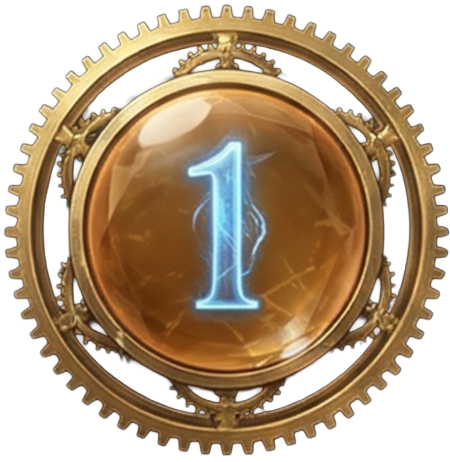
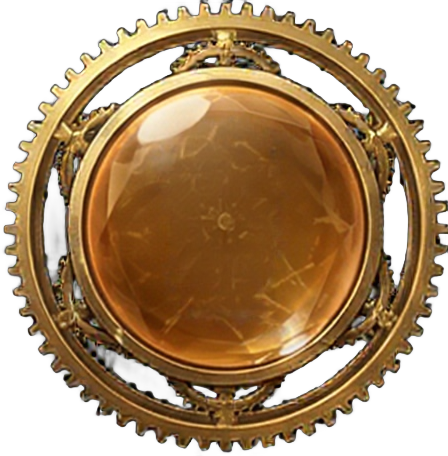
UI: Refactor Score Screen (fixed sizes 320.78x65, pearl blue rank 1, elegant silver rank 2, and resized action buttons)

Changed region(s): [[0.0, 0.0, 1.0, 1.0], [0.625, 0.6754, 0.6562, 0.7061]]

diff --git a/style.css b/style.css
@@ -3588,7 +3588,7 @@ body:has(#screen-setup.active) #app-container {
     display: flex;
     flex-direction: column;
     align-items: center;
-    padding: 3rem 2rem 6rem 2rem;
+    padding: 1rem 2rem 6rem 2rem;
     height: 100svh;
     overflow-y: auto;
     position: relative;
@@ -3607,9 +3607,15 @@ body:has(#screen-setup.active) #app-container {
 
 .astral-header {
     text-align: center;
-    margin-bottom: 3rem;
+    margin-bottom: 1rem; /* Reducido para compactar mÃƒÂ¡s */
     position: relative;
     z-index: 2;
+}
+
+.astral-title-img {
+    width: 425px; /* Reducción del 15% aproximada sobre el valor implícito */
+    height: auto;
+    filter: drop-shadow(0 5px 15px rgba(0,0,0,0.5));
 }
 
 .astral-title {
@@ -3649,10 +3655,20 @@ body:has(#screen-setup.active) #app-container {
     backdrop-filter: blur(12px);
     border: 1px solid rgba(255, 255, 255, 0.08);
     border-radius: 20px;
-    padding: 1.2rem 2rem;
     position: relative;
     transition: all 0.4s cubic-bezier(0.175, 0.885, 0.32, 1.275);
     box-shadow: 0 8px 32px rgba(0, 0, 0, 0.4);
+    
+    /* TAMAÑO FIJO SOLICITADO */
+    width: 320.78px !important;
+    min-width: 320.78px !important;
+    max-width: 320.78px !important;
+    height: 65px !important;
+    min-height: 65px !important;
+    max-height: 65px !important;
+    padding: 0 1.2rem !important;
+    margin: 0 auto;
+    overflow: hidden !important; /* Evitar que el contenido lo estire */
 }
 
 .astral-score-item:hover {
@@ -3664,37 +3680,53 @@ body:has(#screen-setup.active) #app-container {
 .astral-item-gold {
     border: 1px solid rgba(251, 191, 36, 0.9);
     background: linear-gradient(90deg, rgba(251, 191, 36, 0.5) 0%, rgba(251, 191, 36, 0.15) 50%, rgba(15, 23, 42, 0.8) 100%);
-    box-shadow: 0 10px 30px rgba(251, 191, 36, 0.35), inset 0 0 25px rgba(251, 191, 36, 0.25);
+    box-shadow: 0 8px 32px rgba(0, 0, 0, 0.4);
+    width: 320.78px !important;
+    height: 65px !important;
+    min-height: 65px !important;
+    max-height: 65px !important;
 }
 
 .astral-item-gold:hover {
-    box-shadow: 0 15px 40px rgba(251, 191, 36, 0.5), inset 0 0 35px rgba(251, 191, 36, 0.35);
-    border-color: rgba(251, 191, 36, 1);
+    transform: translateY(-4px) scale(1.02);
+    box-shadow: 0 15px 40px rgba(0, 0, 0, 0.6);
 }
 
 .astral-item-silver {
     border: 1px solid rgba(148, 163, 184, 0.9);
     background: linear-gradient(90deg, rgba(148, 163, 184, 0.5) 0%, rgba(148, 163, 184, 0.15) 50%, rgba(15, 23, 42, 0.8) 100%);
-    box-shadow: 0 8px 25px rgba(148, 163, 184, 0.25), inset 0 0 20px rgba(148, 163, 184, 0.15);
+    box-shadow: 0 8px 32px rgba(0, 0, 0, 0.4);
+    width: 320.78px !important;
+    height: 65px !important;
+    min-height: 65px !important;
+    max-height: 65px !important;
 }
 
 .astral-item-bronze {
     border: 1px solid rgba(205, 127, 50, 0.9);
     background: linear-gradient(90deg, rgba(205, 127, 50, 0.5) 0%, rgba(205, 127, 50, 0.15) 50%, rgba(15, 23, 42, 0.8) 100%);
-    box-shadow: 0 8px 25px rgba(205, 127, 50, 0.25), inset 0 0 20px rgba(205, 127, 50, 0.15);
+    box-shadow: 0 8px 32px rgba(0, 0, 0, 0.4);
+    width: 320.78px !important;
+    height: 65px !important;
+    min-height: 65px !important;
+    max-height: 65px !important;
 }
 
 .astral-item-red {
     border: 1px solid rgba(239, 68, 68, 0.9);
     background: linear-gradient(90deg, rgba(239, 68, 68, 0.5) 0%, rgba(239, 68, 68, 0.15) 50%, rgba(15, 23, 42, 0.8) 100%);
-    box-shadow: 0 8px 25px rgba(239, 68, 68, 0.3), inset 0 0 20px rgba(239, 68, 68, 0.2);
+    box-shadow: 0 8px 32px rgba(0, 0, 0, 0.4);
+    width: 320.78px !important;
+    height: 65px !important;
+    min-height: 65px !important;
+    max-height: 65px !important;
 }
 
 .astral-rank-number {
     font-family: var(--font-serif);
-    font-size: 2.2rem;
+    font-size: 1.5rem; /* Reducido para encajar en 65px */
     font-weight: 800;
-    min-width: 50px;
+    min-width: 40px;
     text-align: center;
     color: #64748b;
 }
@@ -3702,7 +3734,6 @@ body:has(#screen-setup.active) #app-container {
 .astral-rank-1 {
     color: #fbbf24;
     text-shadow: 0 0 15px rgba(251, 191, 36, 0.8);
-    font-size: 2.8rem;
 }
 
 .astral-rank-2 {
@@ -3720,6 +3751,46 @@ body:has(#screen-setup.active) #app-container {
     text-shadow: 0 0 12px rgba(239, 68, 68, 0.4);
 }
 
+.rank-number-overlay {
+    position: absolute;
+    top: 50%;
+    left: 50%;
+    transform: translate(-50%, -45%);
+    font-weight: 900;
+    font-size: 1.2rem; /* Mucho mÃƒÂ¡s pequeño */
+    pointer-events: none;
+    z-index: 5;
+    -webkit-text-stroke: 1.5px rgba(0, 0, 0, 0.8);
+    text-shadow: 0 2px 4px rgba(0,0,0,0.5);
+}
+
+.rank-1-blue {
+    color: #b3e5fc !important; /* Azul perla brillante muy claro */
+    -webkit-text-fill-color: #b3e5fc !important;
+    text-shadow: 
+        0 0 8px rgba(179, 229, 252, 0.8),
+        0 0 15px rgba(3, 169, 244, 0.5),
+        0 0 25px rgba(255, 255, 255, 0.6);
+    -webkit-text-stroke: 0 !important; /* Quitar trazo negro */
+}
+
+.rank-2-silver {
+    color: #f1f5f9 !important; /* Gris plata muy claro y elegante */
+    -webkit-text-fill-color: #f1f5f9 !important;
+    text-shadow: 
+        0 0 10px rgba(255, 255, 255, 0.8),
+        0 0 20px rgba(148, 163, 184, 0.5),
+        0 0 5px rgba(0, 0, 0, 0.2);
+    -webkit-text-stroke: 0 !important; /* Quitar trazo negro para elegancia */
+    font-weight: 800;
+}
+
+.astral-rank-img {
+    width: 45px; /* Reducido de 60px */
+    height: 45px;
+    object-fit: contain;
+}
+
 .astral-crown-icon {
     position: absolute;
     top: -20px;
@@ -3735,18 +3806,46 @@ body:has(#screen-setup.active) #app-container {
     50% { transform: translateY(-8px) rotate(8deg) scale(1.1); }
 }
 
+.astral-crown-badge {
+    position: absolute;
+    top: -10px;
+    right: -8px;
+    width: 32px; /* Reducido para el nuevo tamaño */
+    height: 32px;
+    z-index: 20;
+    filter: drop-shadow(0 4px 8px rgba(0,0,0,0.5)) drop-shadow(0 0 10px rgba(251, 191, 36, 0.4));
+    animation: floatingCrown 3s ease-in-out infinite;
+}
+
+.astral-dagger-badge {
+    position: absolute;
+    bottom: -10px;
+    left: -10px;
+    width: 40px;
+    height: 40px;
+    z-index: 20;
+    filter: drop-shadow(0 4px 8px rgba(0,0,0,0.5)) drop-shadow(0 0 10px rgba(239, 68, 68, 0.4));
+    animation: daggerFloat 2.5s ease-in-out infinite;
+}
+
+@keyframes daggerFloat {
+    0%, 100% { transform: translateY(0) rotate(0deg); }
+    50% { transform: translateY(-5px) rotate(-10deg); }
+}
+
 .astral-avatar-wrapper {
-    width: 70px;
-    height: 70px;
+    position: relative;
+    width: 48px; /* Reducido de 70px para encajar en 65px */
+    height: 48px;
     border-radius: 50%;
-    margin: 0 2rem;
+    margin: 0 1rem;
     display: flex;
     align-items: center;
     justify-content: center;
     background: rgba(255, 255, 255, 0.03);
     border: 2px solid rgba(255, 255, 255, 0.1);
     box-shadow: inset 0 0 15px rgba(0,0,0,0.6), 0 0 10px rgba(0,0,0,0.3);
-    font-size: 2.4rem;
+    font-size: 1.8rem;
 }
 
 .astral-player-info {
@@ -3757,19 +3856,20 @@ body:has(#screen-setup.active) #app-container {
 
 .astral-player-name {
     font-family: var(--font-serif);
-    font-size: 1.6rem;
+    font-size: 1.1rem; /* Reducido de 1.6rem */
     font-weight: 700;
     color: #f8fafc;
-    letter-spacing: 2px;
+    letter-spacing: 1px;
+    line-height: 1.1;
 }
 
 .astral-player-role {
     font-family: var(--font-sans);
-    font-size: 0.9rem;
+    font-size: 0.65rem; /* Reducido de 0.9rem */
     color: #64748b;
     text-transform: uppercase;
-    letter-spacing: 3px;
-    margin-top: 0.2rem;
+    letter-spacing: 1px;
+    margin-top: 0.1rem;
 }
 
 .astral-delta-pts {
@@ -3792,13 +3892,13 @@ body:has(#screen-setup.active) #app-container {
 
 .astral-total-pts {
     font-family: var(--font-serif);
-    font-size: 2.8rem;
+    font-size: 1.8rem; /* Reducido de 2.8rem */
     font-weight: 800;
     color: #e2e8f0;
     text-shadow: 0 0 20px rgba(255, 255, 255, 0.2);
-    min-width: 70px;
+    min-width: 50px;
     text-align: right;
-    margin-right: 2rem;
+    margin-right: 1rem;
 }
 
 .astral-score-controls {
@@ -3847,7 +3947,7 @@ body:has(#screen-setup.active) #app-container {
     right: 0;
     display: flex;
     justify-content: center;
-    gap: 3.5rem; /* Un poco mÃƒÂ¡s de espacio entre los 2 grandes */
+    gap: 2.5rem; /* Reducido proporcionalmente */
     z-index: 20;
     padding: 0 1rem;
     pointer-events: none; /* Let clicks pass if they hit between buttons */
@@ -3860,8 +3960,8 @@ body:has(#screen-setup.active) #app-container {
     background-position: center !important;
     background-size: contain !important;
     border: none !important;
-    width: 320px !important; /* Aumentado de 280px */
-    height: 110px !important; /* Aumentado de 100px */
+    width: 272px !important; /* -15% de 320px */
+    height: 94px !important; /* -15% de 110px */
     cursor: pointer !important;
     display: flex !important;
     align-items: center !important;
@@ -3878,8 +3978,8 @@ body:has(#screen-setup.active) #app-container {
 }
 #btn-next-round { 
     background-image: url('assets/IMG/UI/voting_score/btn_nueva_ronda.png') !important; 
-    width: 444px !important; /* +20% sobre 370px */
-    height: 151px !important; /* +20% sobre 126px */
+    width: 377px !important; /* -15% de 444px */
+    height: 128px !important; /* -15% de 151px */
     z-index: 25 !important;
     filter: drop-shadow(0 0 20px rgba(251, 191, 36, 0.6)) drop-shadow(0 10px 18px rgba(0,0,0,0.65)) !important;
 }

diff --git a/app.js b/app.js
@@ -725,7 +725,7 @@ function showRevealPanicScreen() {
                 
                 <!-- Icono Superior -->
                 <div style="flex: 0; display: flex; justify-content: center; margin-top: -6vh; margin-bottom: 1.5vh;">
-                    <img src="assets/IMG/UI/tension/btn_hora.png" alt="Hora" class="panic-time-icon" style="width: 173px; height: auto; filter: drop-shadow(0 5px 15px rgba(0,0,0,0.4));">
+                    <img src="assets/IMG/UI/tension/btn_hora.png" alt="Hora" class="panic-time-icon" style="width: 240px; height: auto; filter: drop-shadow(0 5px 15px rgba(0,0,0,0.4));">
                 </div>
                 
                 <!-- Contenedor Superior (Palabra centrada) -->
@@ -953,12 +953,18 @@ function handleRoundEnd({ impostorFound, correctVoters = [] }) {
         return `
                     <div class="astral-score-item ${borderClass}">
                         <div class="astral-rank-number ${rankClass}">
-                            ${(rankClass === "astral-rank-base")
-                                ? `<img src="assets/IMG/UI/voting_score/btn_pos_cualquiera.png" class="astral-rank-img" alt="Medalla">
-                                   <span class="rank-number-overlay">${index + 1}</span>`
-                                : (index < 3 && !isLast) 
-                                    ? `<img src="assets/IMG/UI/voting_score/btn_pos_${index + 1}.png" class="astral-rank-img" alt="${index + 1}">` 
-                                    : (index + 1)}
+                            ${(rankClass === "astral-rank-1")
+                                ? `<img src="assets/IMG/UI/voting_score/btn_pos_1.png" class="astral-rank-img" alt="1">
+                                   <span class="rank-number-overlay rank-1-blue">1</span>`
+                                : (rankClass === "astral-rank-2")
+                                    ? `<img src="assets/IMG/UI/voting_score/btn_pos_2.png" class="astral-rank-img" alt="2">
+                                       <span class="rank-number-overlay rank-2-silver">2</span>`
+                                    : (rankClass === "astral-rank-3" && !isLast)
+                                        ? `<img src="assets/IMG/UI/voting_score/btn_pos_3.png" class="astral-rank-img" alt="3">`
+                                        : (rankClass === "astral-rank-base")
+                                            ? `<img src="assets/IMG/UI/voting_score/btn_pos_cualquiera.png" class="astral-rank-img" alt="Medalla">
+                                               <span class="rank-number-overlay">${index + 1}</span>`
+                                            : (index + 1)}
                         </div>
                         
                         <div class="astral-avatar-wrapper">

diff --git a/index.html b/index.html
@@ -5,7 +5,7 @@
     <meta charset="UTF-8">
     <meta name="viewport" content="width=device-width, initial-scale=1.0">
     <title>Dixit vs Impostor - Game Master</title>
-    <link rel="stylesheet" href="style.css?v=38">
+    <link rel="stylesheet" href="style.css?v=39">
     <link rel="preconnect" href="https://fonts.googleapis.com">
     <link rel="preconnect" href="https://fonts.gstatic.com" crossorigin>
     <link
@@ -131,7 +131,7 @@
     <!-- Audio Global -->
     <audio id="bg-music" src="music/Clockwork%20Garden%20Carnival.mp3" loop preload="auto"></audio>
 
-    <script src="app.js?v=38"></script>
+    <script src="app.js?v=39"></script>
     <script>
         // Registro de Service Worker para PWA
         if ('serviceWorker' in navigator) {

diff --git a/sw.js b/sw.js
@@ -1,4 +1,4 @@
-const CACHE_NAME = 'dixit-impostor-v36';
+const CACHE_NAME = 'dixit-impostor-v39';
 const ASSETS_TO_CACHE = [
     './',
     './index.html',
